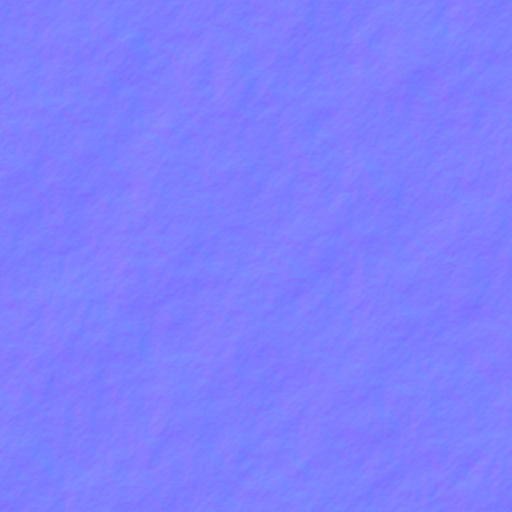
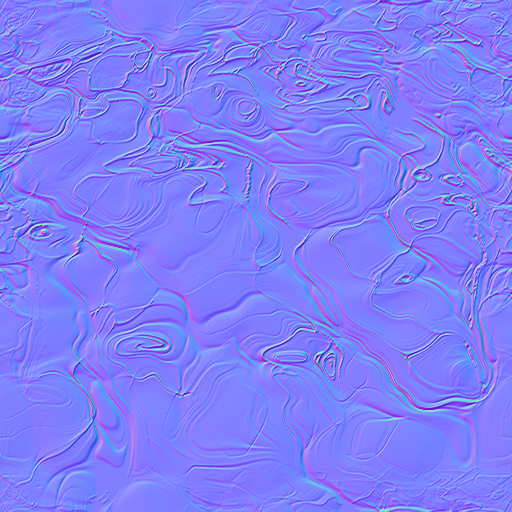
Joshua's wave normal map, and every water dial recalibrated to it (v0.0.74)
The water never had texture because water-normal.png never had waves:
its channels sat within ±2% of flat, so ripple relief, whitecaps, surf
and the colour weave were all multiplied by nearly zero. Beyond
Extinction ships the same file, which is why its cap thresholds never
fired there either. Replaced with the Normal_OpenGL map from Joshua's
seamless water PBR set, tiled at 2x2 the previous density per his call.

Recalibrated to that map's measured statistics (sd ~24/255,
ridge-concentrated):

- Colour: three-stop ramp (shallow teal / mid blue / deep navy) over
  per-wearer midAt/deepAt bands, plus a view-distance smear toward the
  deep colour so no bathymetry contour can draw a "second horizon" at
  the shelf break.
- The ripple is woven into the COLOUR (texAmp), not just the lighting
  normal, so open water reads textured even when the sun angle
  flattens the relief.
- Two-phase flow crossfade no longer offsets its second sample: at
  zero flow both phases now sample the same point, so still water
  keeps full contrast instead of a permanent 30% blur.
- Whitecaps gate the slope threshold against the independently
  scrolling surf sample — the map's thin ridge lines land as sparse
  beads of foam instead of white scratch-dashes.
- The ripple map gets the renderer's max anisotropy, the same lesson
  terrainMaterial.ts already carries: without it, oblique mips average
  the pattern to a wash at exactly the angles the game is played at.
[…]

diff --git a/src/world/waterLook.ts b/src/world/waterLook.ts
@@ -26,6 +26,19 @@ import * as THREE from 'three';
  * rates; our rivers genuinely move, so the texture does too. The ocean
  * sheet passes zero flow and gets BE's calm drift from the fixed
  * per-octave rates alone.
+ *
+ * COLOUR IS A JOURNEY, NOT A SWITCH. The palette has three stops —
+ * shallow teal, a mid blue, deep navy — and each wearer says where the
+ * handovers happen (midAt / deepAt, in depth). The bathymetry under
+ * the ocean sheet is 32 m samples, so any ramp narrower than a few
+ * cells collapses into a painted stripe at the shelf break ("almost
+ * like a second horizon" — Joshua, with a circle around it). Wide
+ * bands soften it up close, and a VIEW-DISTANCE smear finishes the
+ * job: far water slides toward the deep colour regardless of depth,
+ * because from a distance you see sky and scatter, not bottom. The
+ * ripple is also woven into the COLOUR (texAmp), not just the
+ * lighting normal — flat-lit open ocean showed "only color at the
+ * moment" when the sun stopped catching the relief.
  */
 export interface WaterLookOpts {
   /** 0 = BE's ocean palette exactly; 1 = the inland green shift. */
@@ -48,6 +61,23 @@ export interface WaterLookOpts {
    */
   readonly edgeLo: number;
   readonly edgeHi: number;
+  /** Depth where shallow teal has fully handed over to the mid blue. */
+  readonly midAt: number;
+  /** Depth where the mid blue has fully handed over to deep navy. */
+  readonly deepAt: number;
+  /**
+   * How much the ripple pattern shows in the COLOUR itself (fraction
+   * of brightness). Keeps texture readable when the lighting angle
+   * flattens the normal relief to nothing.
+   */
+  readonly texAmp: number;
+  /**
+   * Max anisotropic filtering for the ripple map — the terrain
+   * learned this one (terrainMaterial.ts): at the oblique angles this
+   * game is actually played at, isotropic mips average the pattern to
+   * a flat wash. Pass renderer.capabilities.getMaxAnisotropy().
+   */
+  readonly anisotropy: number;
   /**
    * Polygon-offset direction. The OCEAN sinks (+) so near-coplanar
    * shore terrain wins the depth test — BE's flyover-shimmer lesson.
@@ -76,6 +106,7 @@ export function makeWaterLook(opts: WaterLookOpts): WaterLook {
     (texture) => {
       texture.wrapS = THREE.RepeatWrapping;
       texture.wrapT = THREE.RepeatWrapping;
+      texture.anisotropy = opts.anisotropy;
       ripple.value = texture;
     },
     undefined,
@@ -109,10 +140,22 @@ export function makeWaterLook(opts: WaterLookOpts): WaterLook {
         '#include <common>\n attribute float depth;\n attribute vec2 flow;\n varying float vDepth;\n varying vec2 vWorld;\n varying vec2 vFlow;\n uniform vec2 uCentre;')
       .replace('#include <begin_vertex>',
         '#include <begin_vertex>\n vDepth = depth;\n vFlow = flow;\n vWorld = vec2(position.x, position.z) + uCentre;');
+    // The ripple field is computed ONCE, in map_fragment (which three
+    // runs before the normal and lighting stages), and handed to the
+    // later stages through gRn/gBody — the colour weave, the normal
+    // tilt and the surf caps all read the same water.
     shader.fragmentShader = ('uniform float uTime;\nuniform sampler2D uRipple;\nuniform vec3 uSky;\n' + shader.fragmentShader)
-      .replace('#include <common>', '#include <common>\n varying float vDepth;\n varying vec2 vWorld;\n varying vec2 vFlow;\n mat2 rrot(float a){ float c = cos(a); float s = sin(a); return mat2(c, -s, s, c); }')
-      .replace('#include <normal_fragment_maps>', `#include <normal_fragment_maps>
+      .replace('#include <common>', '#include <common>\n varying float vDepth;\n varying vec2 vWorld;\n varying vec2 vFlow;\n mat2 rrot(float a){ float c = cos(a); float s = sin(a); return mat2(c, -s, s, c); }\n vec3 gRn = vec3(0.0);\n float gBody = 0.0;')
+      .replace('#include <map_fragment>', `#include <map_fragment>
         {
+          // THE EDGE BLENDS LIKE THE GROUND DOES. A hard discard at a
+          // threshold cut the waterline like scissors against the
+          // beach; the terrain never does that — its bands feather.
+          float depth = vDepth;
+          float edge = smoothstep(${opts.edgeLo.toFixed(1)}, ${opts.edgeHi.toFixed(1)}, depth);
+          // Films barely ripple; a body of water carries the full skin.
+          gBody = smoothstep(0.0, 25.0, depth);
+
           // BE's four ripple octaves, world-planar, converted m -> cm —
           // advected by the LOCAL CURRENT with the two-phase flow trick
           // so a moving reach visibly moves and still water sits calm.
@@ -126,56 +169,77 @@ export function makeWaterLook(opts: WaterLookOpts): WaterLook {
           vec2 a1 = adv * t1;
           vec3 rn0 = vec3(0.0);
           vec3 rn1 = vec3(0.0);
-          rn0 += (texture2D(uRipple, rrot(0.0) * (wp - a0) / 1730.0 + uTime * vec2( 0.021, 0.013)).xyz - 0.5);
-          rn1 += (texture2D(uRipple, rrot(0.0) * (wp - a1) / 1730.0 + uTime * vec2( 0.021, 0.013) + 0.37).xyz - 0.5);
-          rn0 += (texture2D(uRipple, rrot(2.1) * (wp - a0) /  870.0 - uTime * vec2( 0.017, 0.024)).xyz - 0.5) * 0.8;
-          rn1 += (texture2D(uRipple, rrot(2.1) * (wp - a1) /  870.0 - uTime * vec2( 0.017, 0.024) + 0.61).xyz - 0.5) * 0.8;
-          rn0 += (texture2D(uRipple, rrot(4.3) * (wp - a0) /  390.0 + uTime * vec2( 0.032,-0.019)).xyz - 0.5) * 0.65;
-          rn1 += (texture2D(uRipple, rrot(4.3) * (wp - a1) /  390.0 + uTime * vec2( 0.032,-0.019) + 0.19).xyz - 0.5) * 0.65;
-          rn0 += (texture2D(uRipple, rrot(1.2) * (wp - a0) /  150.0 + uTime * vec2(-0.045, 0.05 )).xyz - 0.5) * 0.7;
-          rn1 += (texture2D(uRipple, rrot(1.2) * (wp - a1) /  150.0 + uTime * vec2(-0.045, 0.05 ) + 0.83).xyz - 0.5) * 0.7;
-          vec3 rn = mix(rn0, rn1, xf);
-          // Films barely ripple; a body of water carries the full skin.
-          float bodyAmp = smoothstep(0.0, 25.0, vDepth);
-          normal = normalize(normal + vec3(rn.x, 0.0, rn.y) * 0.55 * bodyAmp);
-        }`)
-      .replace('#include <map_fragment>', `#include <map_fragment>
-        {
-          // THE EDGE BLENDS LIKE THE GROUND DOES. A hard discard at a
-          // threshold cut the waterline like scissors against the
-          // beach; the terrain never does that — its bands feather.
-          // So the water's alpha rises from nothing over edgeFade of
-          // column, and the sand shows through the first film of it
-          // exactly as it shows through the shallows.
-          float depth = vDepth;
-          float edge = smoothstep(${opts.edgeLo.toFixed(1)}, ${opts.edgeHi.toFixed(1)}, depth);
-          float shallow = 1.0 - smoothstep(30.0, 450.0, depth);
+          // NOTE the two phases sample the SAME point apart from their
+          // own advection — no extra UV offsets. At zero flow (the
+          // ocean, a still lake) rn0 == rn1 and the crossfade is a
+          // no-op at FULL contrast; offsets here would blur exactly
+          // the water that holds still enough to look at.
+          rn0 += (texture2D(uRipple, rrot(0.0) * (wp - a0) / 865.0 + uTime * vec2( 0.021, 0.013)).xyz - 0.5);
+          rn1 += (texture2D(uRipple, rrot(0.0) * (wp - a1) / 865.0 + uTime * vec2( 0.021, 0.013)).xyz - 0.5);
+          rn0 += (texture2D(uRipple, rrot(2.1) * (wp - a0) /  435.0 - uTime * vec2( 0.017, 0.024)).xyz - 0.5) * 0.8;
+          rn1 += (texture2D(uRipple, rrot(2.1) * (wp - a1) /  435.0 - uTime * vec2( 0.017, 0.024)).xyz - 0.5) * 0.8;
+          rn0 += (texture2D(uRipple, rrot(4.3) * (wp - a0) /  195.0 + uTime * vec2( 0.032,-0.019)).xyz - 0.5) * 0.65;
+          rn1 += (texture2D(uRipple, rrot(4.3) * (wp - a1) /  195.0 + uTime * vec2( 0.032,-0.019)).xyz - 0.5) * 0.65;
+          rn0 += (texture2D(uRipple, rrot(1.2) * (wp - a0) /   75.0 + uTime * vec2(-0.045, 0.05 )).xyz - 0.5) * 0.7;
+          rn1 += (texture2D(uRipple, rrot(1.2) * (wp - a1) /   75.0 + uTime * vec2(-0.045, 0.05 )).xyz - 0.5) * 0.7;
+          gRn = mix(rn0, rn1, xf);
+
+          // COLOUR. Three stops, wide handovers — the wearer picks
+          // where (midAt/deepAt), so the ramp spans several bathymetry
+          // cells instead of collapsing inside one at the shelf break.
+          float toMid  = smoothstep(${opts.edgeLo.toFixed(1)}, ${opts.midAt.toFixed(1)}, depth);
+          float toDeep = smoothstep(${opts.midAt.toFixed(1)}, ${opts.deepAt.toFixed(1)}, depth);
           vec3 shallowCol = vec3(0.020, 0.34, 0.42);   // BE deep teal
+          vec3 midCol     = vec3(0.012, 0.21, 0.36);   // the bridge
           vec3 deepCol    = vec3(0.008, 0.10, 0.26);   // BE navy
           // "Just inland a slight bit of a greenish tint" — a nudge of
           // the same water toward green, not a different water.
           shallowCol = mix(shallowCol, vec3(0.035, 0.36, 0.33), ${opts.green.toFixed(2)});
+          midCol     = mix(midCol,     vec3(0.022, 0.25, 0.28), ${opts.green.toFixed(2)});
           deepCol    = mix(deepCol,    vec3(0.014, 0.15, 0.20), ${opts.green.toFixed(2)});
-          diffuseColor.rgb = mix(deepCol, shallowCol, shallow * shallow);
+          vec3 col = mix(shallowCol, midCol, toMid);
+          col = mix(col, deepCol, toDeep);
+          // FAR WATER IS SKY AND SCATTER, NOT BOTTOM. Beyond ~150 m of
+          // view distance every depth slides toward the deep colour,
+          // so no bathymetry contour can draw a second horizon.
+          float away = smoothstep(15000.0, 130000.0, length(vViewPosition));
+          col = mix(col, deepCol, away * 0.85);
+          diffuseColor.rgb = col;
+          // The ripple woven into the colour itself, so the surface
+          // reads as textured even when the light angle flattens the
+          // normal relief. Fades with distance with everything else.
+          diffuseColor.rgb *= 1.0 + (gRn.x + gRn.y) * ${opts.texAmp.toFixed(3)} * gBody * (1.0 - away);
 
           // BE's surf: broad foam right at the waterline, sparse caps
           // in open water where the ripple tilts hard. The band scales
           // per wearer — a beach break for the ocean, a whisper of
           // bank-line for a stream.
           float surf = smoothstep(160.0 * ${opts.surf.toFixed(3)}, 15.0 * ${opts.surf.toFixed(3)}, depth);
-          float surfN = texture2D(uRipple, vWorld / 600.0 + uTime * vec2(0.05, 0.03)).r;
+          float surfN = texture2D(uRipple, vWorld / 300.0 + uTime * vec2(0.05, 0.03)).r;
           float foam = surf * smoothstep(0.60, 0.86, surfN);
-          vec3 cn = texture2D(uRipple, vWorld / 1400.0 - uTime * vec2(0.02, 0.028)).xyz * 2.0 - 1.0;
-          foam = clamp(foam + smoothstep(0.55, 0.95, length(cn.xy)) * 0.45, 0.0, 1.0);
+          // Open-water caps. The wave map's slope energy runs in thin
+          // ridge LINES (Joshua's PBR water normal, sd ~24/255), and a
+          // bare threshold paints those lines as white scratches. Gating
+          // against the second, independently scrolling sample keeps
+          // only the spots where the two patterns cross — beads of
+          // foam that wink in and out, not dashes.
+          vec3 cn = texture2D(uRipple, vWorld / 700.0 - uTime * vec2(0.02, 0.028)).xyz * 2.0 - 1.0;
+          float caps = smoothstep(0.75, 1.10, length(cn.xy)) * smoothstep(0.55, 0.80, surfN);
+          foam = clamp(foam + caps * 0.4, 0.0, 1.0);
           diffuseColor.rgb = mix(diffuseColor.rgb, vec3(0.90, 0.95, 0.97), foam);
 
           // BE's clear-water alpha: see the sand at the waterline, a
-          // real body offshore, foam near-opaque.
-          diffuseColor.a *= mix(1.0, 1.55, smoothstep(40.0, 550.0, depth));
+          // real body offshore, foam near-opaque. The grade rides the
+          // same wearer bands as the colour so they thicken together.
+          diffuseColor.a *= mix(1.0, 1.55, smoothstep(${opts.edgeHi.toFixed(1)}, ${(opts.midAt * 1.4).toFixed(1)}, depth));
           diffuseColor.a = min(diffuseColor.a, 0.82);
           diffuseColor.a = mix(diffuseColor.a, 0.95, foam);
           diffuseColor.a *= edge;
           if (diffuseColor.a < 0.01) discard;
+        }`)
+      .replace('#include <normal_fragment_maps>', `#include <normal_fragment_maps>
+        {
+          normal = normalize(normal + vec3(gRn.x, 0.0, gRn.y) * 0.75 * gBody);
         }`)
       .replace('#include <lights_fragment_end>', `#include <lights_fragment_end>
         {

diff --git a/src/world/Ocean.ts b/src/world/Ocean.ts
@@ -49,7 +49,7 @@ export class Ocean {
   private centreZ = 0;
   private placed = false;
 
-  constructor(private readonly scene: THREE.Scene) {
+  constructor(private readonly scene: THREE.Scene, anisotropy: number) {
     const span = N * CELL;
     const pos = new Float32Array(N * N * 3);
     const normals = new Float32Array(N * N * 3);
@@ -80,7 +80,7 @@ export class Ocean {
     // attribute to exist, and zero is the honest value for it.
     geometry.setAttribute('flow', new THREE.BufferAttribute(new Float32Array(N * N * 2), 2));
     geometry.setIndex(new THREE.BufferAttribute(faces, 1));
-    const look = makeWaterLook({ green: 0, surf: 1, sink: true, edgeLo: 35, edgeHi: 130 });
+    const look = makeWaterLook({ green: 0, surf: 1, sink: true, edgeLo: 35, edgeHi: 300, midAt: 700, deepAt: 2600, texAmp: 0.40, anisotropy });
     this.clock = look.clock;
     this.centre = look.centre;
     this.mesh = new THREE.Mesh(geometry, look.material);

diff --git a/src/world/IslandWater.ts b/src/world/IslandWater.ts
@@ -155,7 +155,7 @@ export class IslandWater {
   private clockRef!: { value: number };
   private centreRef!: { value: THREE.Vector2 };
 
-  constructor(private readonly scene: THREE.Scene) {
+  constructor(private readonly scene: THREE.Scene, private readonly anisotropy: number) {
     const span = N * CELL;
     const pos = new Float32Array(N * N * 3);
     const normals = new Float32Array(N * N * 3);
@@ -206,7 +206,7 @@ export class IslandWater {
    * is the single owner of every colour and constant.
    */
   private material(): THREE.MeshStandardMaterial {
-    const look = makeWaterLook({ green: 1, surf: 0.15, sink: false, edgeLo: 1.5, edgeHi: 8 });
+    const look = makeWaterLook({ green: 1, surf: 0.15, sink: false, edgeLo: 1.5, edgeHi: 25, midAt: 70, deepAt: 260, texAmp: 0.20, anisotropy: this.anisotropy });
     this.clockRef = look.clock;
     this.centreRef = look.centre;
     return look.material;

diff --git a/src/scenes/IslandScene.ts b/src/scenes/IslandScene.ts
@@ -1853,9 +1853,10 @@ export class IslandScene {
     // ground routes it, so the only input is the terrain that is
     // already here. The hydrography stays on disk as the thing the
     // tests check the result AGAINST — see IslandWater's header.
-    this.water = new IslandWater(this.scene);
+    const aniso = this.renderer.capabilities.getMaxAnisotropy();
+    this.water = new IslandWater(this.scene, aniso);
     this.water.follow(this.ant.where);
-    this.ocean = new Ocean(this.scene);
+    this.ocean = new Ocean(this.scene, aniso);
     this.ocean.follow(this.ant.where);
   }
 
